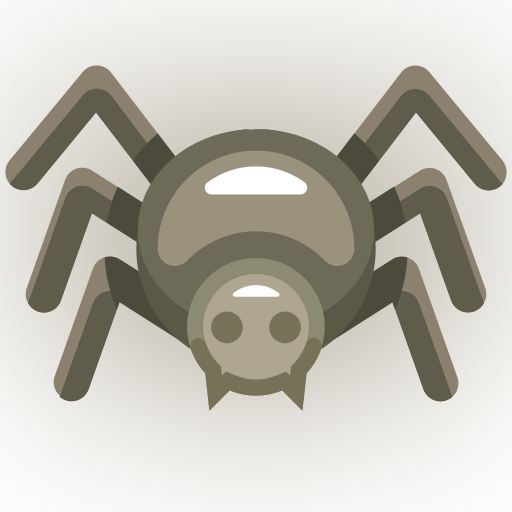
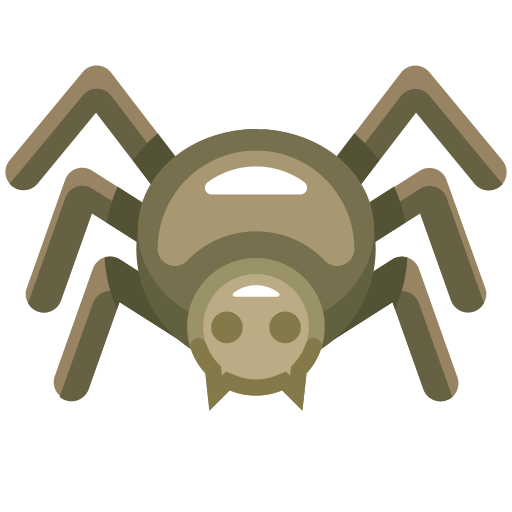
p34 mp02
- 몬스터 레벨별 획득 골드 가중치 수정
ㄴ 레벨당 +6% > +4%

- 서현거미, 백현귀 이미지 이펙트 일부 수정

- 플라스크 전역 드랍 추가
ㄴ 이제 몬스터 처치 시 낮은 확률로 플라스크 아이템 획득 가능
ㄴ 몬스터 레벨에 따라 하급~최상급 포션이 드랍됨.

diff --git a/js/formulas.js b/js/formulas.js
@@ -1044,6 +1044,26 @@ function rollStoneDrop(level, monsterGrade){
   return { itemId: item.id, qty };
 }
 
+// 플라스크 단계(tier) 선택(전역 공식). FLASK_TIER_RULES(data.js)를 위에서부터 순서대로 검사해 몬스터
+// 레벨이 속하는 첫 구간의 tier를 반환함 — pickStoneGrade와 완전히 동일한 구간 조회 패턴을 재사용함.
+function pickFlaskTier(level){
+  const rule = FLASK_TIER_RULES.find(r => level >= r.minLevel && (r.maxLevel == null || level <= r.maxLevel));
+  return rule ? rule.tier : FLASK_TIER_RULES[FLASK_TIER_RULES.length - 1].tier;
+}
+// 플라스크 드랍 판정(전역 공식, rollStoneDrop과 동일한 구조). 1) FLASK_DROP_CHANCE 확률로 드랍 판정 →
+// 2) 성공 시 FLASK_TYPE_CHANCE로 체력/마나 중 종류 결정 → 3) pickFlaskTier로 레벨 기준 단계 결정 →
+// 4) 종류+단계로 CONSUMABLES id(hpFlask{tier}/mpFlask{tier})를 조합해 기본 수량(FLASK_DROP_BASE_QTY) 지급.
+// 마석 드랍(rollStoneDrop)과 완전히 독립적으로 호출·판정되며, 몬스터 등급에 따른 수량 보정은 없음
+// (요청사항: 기본 드랍 수량은 등급 무관 전부 동일). 실패하면 null을 반환.
+function rollFlaskDrop(level){
+  if(Math.random() * 100 >= FLASK_DROP_CHANCE) return null;
+  const type = Math.random() * 100 < FLASK_TYPE_CHANCE.hp ? 'hp' : 'mp';
+  const tier = pickFlaskTier(level);
+  const itemId = (type === 'hp' ? 'hpFlask' : 'mpFlask') + tier;
+  if(!CONSUMABLES[itemId]) return null;
+  return { itemId, qty: FLASK_DROP_BASE_QTY };
+}
+
 // ---- 몬스터 체력/공격력 ----
 // 일반: Lv1=150, 이후 (이전 레벨 HP + 50) x 1.07 / 에픽: 같은 레벨 일반 몬스터의 3배(수정 없음)
 function normalMonsterHP(level){
@@ -1295,6 +1315,7 @@ function resolveDrops(monsterDef, dungeon, level){
   let weaponDrop = resolveWeaponRelicDrop(level); // { type, level } 또는 null
 
   const stoneDrop = rollStoneDrop(level, grade); // { itemId, qty } 또는 null(전역 공식, 던전/등급별 개별 설정 없음)
+  const flaskDrop = rollFlaskDrop(level); // { itemId, qty } 또는 null(전역 공식, 마석 드랍과 완전히 독립적으로 판정)
 
   // drops 중 artifactId가 있는 항목은 각 항목마다 독립적으로 확률을 판정함(재료류 미스크 드랍과 동일한
   // 원칙). 과거엔 몬스터마다 아티팩트 드랍 항목이 최대 1개뿐이라 첫 성공에서 멈춰도 차이가 없었지만,
@@ -1358,7 +1379,7 @@ function resolveDrops(monsterDef, dungeon, level){
     }
   }
 
-  return { gold, weaponDrop, weaponIdDrops, stoneDrop, artifactDropIds, miscDrops };
+  return { gold, weaponDrop, weaponIdDrops, stoneDrop, flaskDrop, artifactDropIds, miscDrops };
 }
 
 // ---- 한국어 조사 처리 ----

diff --git a/js/dungeon.js b/js/dungeon.js
@@ -58,7 +58,7 @@ function spawnMonsters(){
   // 이번 전투(그룹 전멸까지)에서 처치한 모든 몬스터의 보상을 합산해 담아둘 그릇
   hunt.pendingRewards = {
     gold: 0, expGained: 0, levelsGained: 0, newPlayerLevel: state.playerLevel,
-    weaponDrops: [], weaponIdDrops: [], stoneDrops: {}, artifactDrops: [], miscDrops: {}, killedMonsters: [],
+    weaponDrops: [], weaponIdDrops: [], stoneDrops: {}, flaskDrops: {}, artifactDrops: [], miscDrops: {}, killedMonsters: [],
   };
 
   renderHunt();
@@ -445,6 +445,14 @@ function killMonsterInstance(instanceId){
     hunt.pendingRewards.stoneDrops[result.stoneDrop.itemId] = (hunt.pendingRewards.stoneDrops[result.stoneDrop.itemId] || 0) + result.stoneDrop.qty;
     dropVisualItems.push({ kind: 'item', itemId: result.stoneDrop.itemId });
   }
+  if(result.flaskDrop){
+    // 플라스크는 마석(state[item.stateKey])과 달리 소비 아이템 전용 보유 수량 저장소(state.consumables)를
+    // 사용함 — 상점 구매/사용(actions.js) 등 기존 플라스크 지급 로직과 완전히 동일한 방식으로 지급.
+    if(!state.consumables) state.consumables = { hpFlask6: 0, mpFlask6: 0 };
+    state.consumables[result.flaskDrop.itemId] = (state.consumables[result.flaskDrop.itemId] || 0) + result.flaskDrop.qty;
+    hunt.pendingRewards.flaskDrops[result.flaskDrop.itemId] = (hunt.pendingRewards.flaskDrops[result.flaskDrop.itemId] || 0) + result.flaskDrop.qty;
+    dropVisualItems.push({ kind: 'consumable', itemId: result.flaskDrop.itemId });
+  }
   if(result.artifactDropIds && result.artifactDropIds.length){
     for(const id of result.artifactDropIds){
       grantArtifactSafe(id);
@@ -519,6 +527,10 @@ function openKillResultModal(rewards){
   Object.keys(rewards.stoneDrops).forEach(itemId => {
     const item = MISC_ITEMS[itemId];
     rewardsHtml += `<div><span style="color:${stoneNameColor(item.id)}; font-weight:700;">${item.name}</span> +${rewards.stoneDrops[itemId]} 획득</div>`;
+  });
+  Object.keys(rewards.flaskDrops).forEach(itemId => {
+    const item = CONSUMABLES[itemId];
+    rewardsHtml += `<div><span class="txt-shard">${itemIconHtml(item)} ${item.name}</span> +${rewards.flaskDrops[itemId]} 획득</div>`;
   });
   rewards.artifactDrops.forEach(artId => {
     const art = ARTIFACTS[artId];

diff --git a/js/render.js b/js/render.js
@@ -1128,6 +1128,24 @@ function dungeonStoneGrades(d){
   });
   return grades;
 }
+// 이 던전의 몬스터들이 실제로 등장 가능한 레벨(dungeonStoneGrades와 동일한 레벨 수집 방식)에서 나올 수
+// 있는 플라스크 아이템 id(hpFlask{tier}/mpFlask{tier})를 전부 모아 중복없이 반환. 종류(체력/마나)는
+// 레벨과 무관하게 항상 둘 다 나올 수 있으므로, 각 레벨에서 계산된 tier마다 hp/mp 두 id를 모두 후보로 넣음.
+function dungeonFlaskItems(d){
+  const itemIds = new Set();
+  d.monsters.forEach(id => {
+    const m = MONSTERS[id];
+    const levels = m.grade === 'normal'
+      ? Array.from({ length: (d.levelRange || 0) + 1 }, (_, i) => m.level + i)
+      : [m.level];
+    levels.forEach(lv => {
+      const tier = pickFlaskTier(lv);
+      itemIds.add('hpFlask' + tier);
+      itemIds.add('mpFlask' + tier);
+    });
+  });
+  return itemIds;
+}
 // 던전 입구 카드의 "획득 가능 아이템 안내" 아이콘 목록 생성.
 // - 골드/경험치/모험가의 유해는 하드코딩된 고정 안내(요구사항)이며 던전 데이터와 무관하게 항상 표시됨.
 // - 마석/장비/기타/아티팩트는 이 던전의 몬스터 드랍 테이블(MONSTERS[id].drops)과 레벨 구간을 기준으로
@@ -1206,6 +1224,14 @@ function buildDungeonDropIcons(d){
     if(!item || seenStoneIds.has(item.id)) return;
     seenStoneIds.add(item.id);
     icons.push({ icon: item.icon, borderColor: stoneNameColor(item.id), tooltip: buildStoneTooltipHtml(item.id) });
+  });
+
+  // 8. 플라스크 — 마석(7번)과 완전히 동일한 방식으로, 이 던전 몬스터들의 레벨 구간에서 실제로 나올 수
+  //    있는 체력/마나 포션만 자동 선별해 기존 소비 아이템 툴팁 공식(buildConsumableTooltipHtml)으로 표시.
+  dungeonFlaskItems(d).forEach(itemId => {
+    const item = CONSUMABLES[itemId];
+    if(!item) return;
+    icons.push({ iconHtml: itemIconHtml(item), borderColor: 'var(--forge-line)', tooltip: buildConsumableTooltipHtml(itemId) });
   });
 
   return icons.map(it => `

diff --git a/js/effects.js b/js/effects.js
@@ -276,6 +276,12 @@ function dropItemVisualInner(item){
     const a = ARTIFACTS[item.id];
     return `<span class="drop-item-visual-inner drop-item-visual-emoji" style="filter:${dropEffectGlowFilter(a.grade)}">${itemIconHtml(a)}</span>`;
   }
+  if(item.kind === 'consumable'){
+    // 플라스크(CONSUMABLES) 드랍 연출 — 마석/재료(MISC_ITEMS)와는 다른 데이터 테이블이라 별도 분기.
+    // CONSUMABLES 항목엔 grade 필드가 없어 dropEffectGlowFilter가 자동으로 기본(무광) 처리함.
+    const it = CONSUMABLES[item.itemId];
+    return `<span class="drop-item-visual-inner drop-item-visual-emoji" style="filter:${dropEffectGlowFilter(it.grade)}">${itemIconHtml(it)}</span>`;
+  }
   // item.kind === 'item' — 마석/재료 등 MISC_ITEMS
   const it = MISC_ITEMS[item.itemId];
   return `<span class="drop-item-visual-inner drop-item-visual-emoji" style="filter:${dropEffectGlowFilter(it.grade)}">${itemIconHtml(it)}</span>`;
